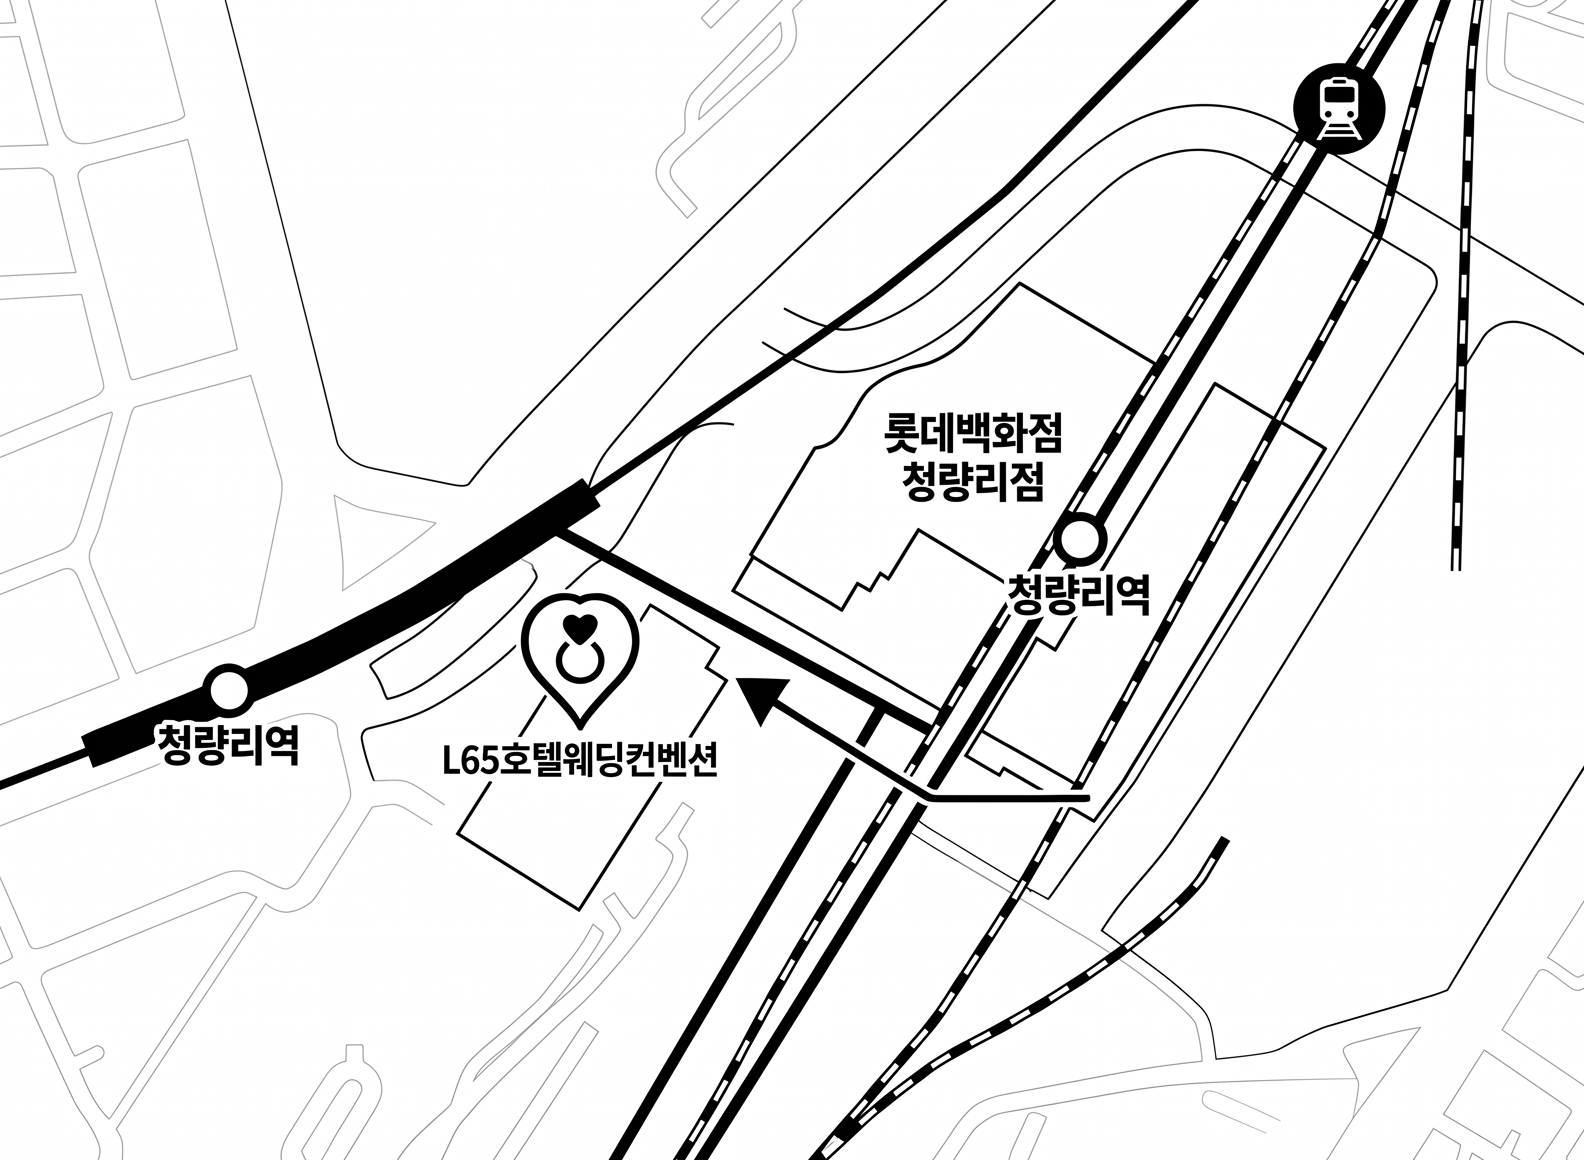
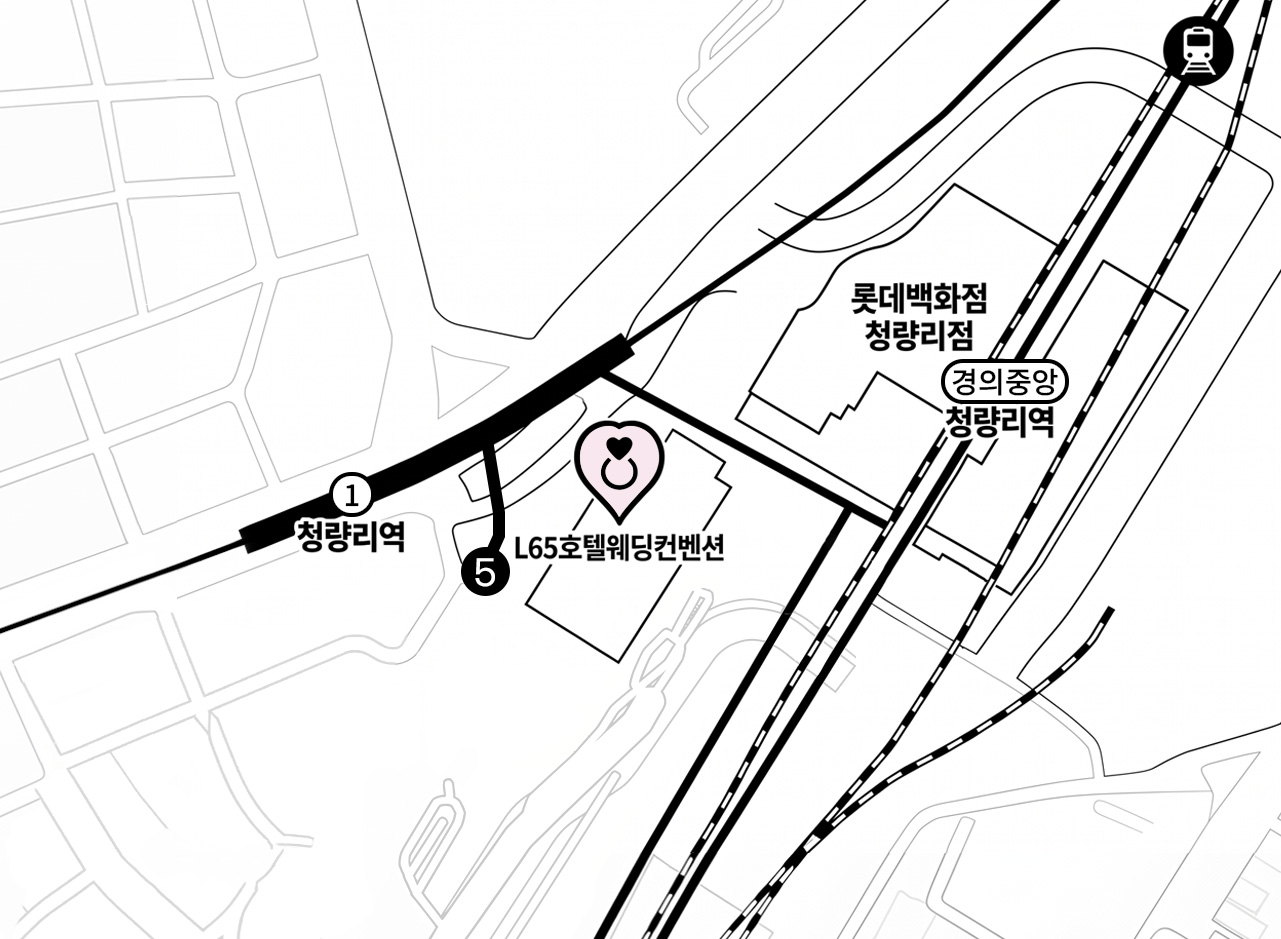
ㄴ

diff --git a/index.html b/index.html
@@ -22,6 +22,20 @@
     <link rel="preconnect" href="https://fonts.gstatic.com" crossorigin>
     <link href="https://fonts.googleapis.com/css2?family=Cinzel:wght@400;500;600&family=Noto+Sans+KR:wght@300;400;500;700&display=swap" rel="stylesheet">
 <style>
+    /* GALLERY 섹션 썸네일 영역 전체 밀림 방지 */
+#thumbContainer {
+    width: 100%;
+    overflow-x: auto;
+    scrollbar-width: none; /* 파이어폭스 스크롤바 숨김 */
+}
+#thumbContainer::-webkit-scrollbar {
+    display: none; /* 크롬/사파리 스크롤바 숨김 */
+}
+
+/* 전체 청첩장 바디 영역이 가로로 넘쳐서 밀리는 것 원천 차단 */
+body {
+    overflow-x: hidden;
+}
         body {
             font-family: 'Noto Sans KR', sans-serif;
             background-color: #f3f4f6;
@@ -127,10 +141,10 @@
     
     <!-- ⭐ 상단 타이틀 텍스트 (absolute로 공중에 띄워서 사진을 밀어내지 않고 위로 겹치게 함) -->
     <div id="introTitle" class="absolute top-12 left-0 w-full flex flex-col justify-center items-center px-6 z-20 fade-element is-visible pointer-events-none">
-<h1 class=" mt-5 serif-font text-[40px] line-height-22 text-black font-normal tracking-wide uppercase mb-3 leading-tight text-center">
+<h1 class=" mt-5 serif-font text-[36px] line-height-22 text-black font-normal tracking-wide uppercase mb-3 leading-tight text-center">
                     DAESEUNG<br>&<br>SEOWOO<br>WEDDING
                 </h1>
-                <div class="text-[14px] font-medium tracking-wide text-black space-y-0.5">
+                <div class="text-[14px] font-medium tracking-wide text-black space-y-0.5 text-center">
                     <p>2026.10.05 MONDAY (대체공휴일) 16:00</p>
                     <p class="tracking-widest text-[14px] mt-2 text-gray-500">L65 Hotel Wedding Convention</p>
                 </div>
@@ -891,19 +905,20 @@ function toggleAccordion(id, btnElement) {
         let swiper;
 
         document.addEventListener('DOMContentLoaded', function () {
-            swiper = new Swiper('.mainSwiper', {
-                slidesPerView: 1,
-                spaceBetween: 0,
-                loop: false,
-    resistance: true,           // 튕김 방지 활성화
-    resistanceRatio: 0,
-                speed: 300,
-                observer: true,
-                observeParents: true,
-                simulateTouch: true,
-                grabCursor: true,
-                touchRatio: 1,
-                on: {
+swiper = new Swiper('.mainSwiper', {
+    slidesPerView: 1,
+    spaceBetween: 0,
+    loop: false,
+    speed: 300,
+    observer: true,
+    observeParents: true,
+    simulateTouch: true,
+    grabCursor: true,
+    touchRatio: 1,
+    resistance: true,        // 바운스/밀림 방지 활성화
+    resistanceRatio: 0,      // 끝까지 밀었을 때 튕기거나 밀리는 현상 완벽 차단
+    watchOverflow: true,     // 슬라이드가 넘칠 때 레이아웃 고정
+    on: {
                     slideChange: function () {
                         const activeIndex = this.activeIndex;
                         const percentage = ((activeIndex + 1) / totalSlides) * 100;
